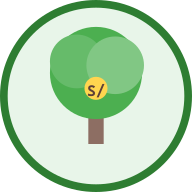
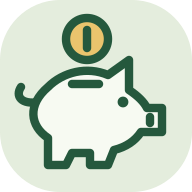
Renovar identidad con un cerdito de alcancía y unificar iconos PWA

diff --git a/src/live/live.css b/src/live/live.css
@@ -1,7 +1,7 @@
 .av-app,.av-page{--bg:#f7f8f3;--card:#fff;--ink:#20372c;--muted:#526459;--line:#cdd9cd;--accent:#25583d;color:var(--ink);background:var(--bg);font:1rem/1.6 Inter,system-ui,sans-serif;min-height:100vh}.av-page{padding:2rem 5vw}.av-app *,.av-page *{box-sizing:border-box}.av-app h1,.av-page h1{font-size:clamp(2rem,4vw,3.2rem);line-height:1.15;font-weight:600;letter-spacing:-.04em;margin:1rem 0}.av-app h2,.av-page h2{font-size:1.3em;font-weight:650;margin:0 0 .7rem}.av-app h3{font-weight:650;margin:1.4rem 0 .5rem}.av-app p,.av-page p{margin:.7rem 0 1rem;color:var(--muted)}
 .av-app button,.av-page button{font:inherit;background:var(--accent);border:1px solid var(--accent);color:white;border-radius:12px;padding:.65rem 1rem;min-height:44px;cursor:pointer;font-weight:600}.av-app button:disabled,.av-page button:disabled{opacity:.6;cursor:wait}.av-app .av-secondary,.av-page .av-secondary{background:var(--card);color:var(--ink);border-color:var(--line)}.av-app .av-link,.av-page .av-link{background:transparent;color:var(--accent);border:0;text-decoration:underline;padding:.4rem}
 .av-app label,.av-page label{display:flex;flex-direction:column;gap:.35rem;font-weight:550;margin:.8rem 0}.av-app input,.av-page input,.av-app select,.av-page select,.av-app textarea,.av-page textarea{font:inherit;background:var(--card);color:var(--ink);border:1px solid #9daea1;border-radius:9px;padding:.65rem;min-height:44px;width:100%;min-width:0;max-width:100%}.av-app textarea,.av-page textarea{min-height:5rem;resize:vertical}.av-check{flex-direction:row!important;align-items:flex-start;font-weight:400!important;min-height:44px}.av-app input[type=checkbox],.av-page input[type=checkbox]{width:22px;min-height:22px;flex-shrink:0;margin:.3rem}.av-app :focus-visible,.av-page :focus-visible{outline:3px solid #b8680e;outline-offset:4px}
-.av-card{background:var(--card);border:1px solid var(--line);border-radius:18px;padding:1.5rem;margin:1rem 0;min-width:0}.av-brand{font-size:1.3em;font-weight:700;text-decoration:none;color:var(--ink);letter-spacing:-.04em;display:inline-flex;align-items:center;gap:.6rem}.av-brand span{background:#e4eddd;color:#315f41;border-radius:50%;width:2.5rem;height:2.5rem;display:inline-grid;place-items:center}.av-header{display:flex;justify-content:space-between;align-items:center;gap:1rem;flex-wrap:wrap;padding:1rem 4vw;border-bottom:1px solid var(--line);background:var(--card)}.av-header>div{display:flex;gap:1rem;align-items:center;flex-wrap:wrap}
+.av-card{background:var(--card);border:1px solid var(--line);border-radius:18px;padding:1.5rem;margin:1rem 0;min-width:0}.av-brand{font-size:1.3em;font-weight:700;text-decoration:none;color:var(--ink);letter-spacing:-.04em;display:inline-flex;align-items:center;gap:.6rem}.av-brand-icon{display:block;width:2.5rem;height:2.5rem;flex-shrink:0}.av-header{display:flex;justify-content:space-between;align-items:center;gap:1rem;flex-wrap:wrap;padding:1rem 4vw;border-bottom:1px solid var(--line);background:var(--card)}.av-header>div{display:flex;gap:1rem;align-items:center;flex-wrap:wrap}
 .av-layout{max-width:1440px;margin:auto;display:grid;grid-template-columns:210px minmax(0,1fr);gap:2.5rem;padding:2rem 4vw}.av-nav{display:flex;flex-direction:column;gap:.4rem;align-self:start;position:sticky;top:1rem}.av-nav button{text-align:left;border:0;background:transparent;color:var(--muted)}.av-nav button[aria-current=page]{background:#e3ebdc;color:#214b33}.av-connection{font-size:.85em;padding:.6rem}.av-main{min-width:0}.av-toolbar{display:flex;align-items:center;justify-content:space-between;gap:1rem;flex-wrap:wrap;margin-bottom:1.5rem}.av-toolbar label{margin:0;min-width:200px;font-size:.9em}.av-eyebrow{font-size:.75em;font-weight:700;letter-spacing:.14em}
 .av-garden{border-radius:22px;overflow:hidden;margin:1.5rem 0 1rem;border:1px solid var(--line)}.av-garden img{width:100%;height:clamp(250px,38vw,430px);object-fit:cover;display:block}.av-garden figcaption{background:#183624;color:white;display:flex;flex-direction:column;padding:1rem 1.5rem;gap:.25rem}.av-garden figcaption strong{font-size:1.3em}.av-stats,.av-cards{display:grid;grid-template-columns:repeat(auto-fit,minmax(min(100%,260px),1fr));gap:1rem}.av-stats strong{font-size:1.6em}.av-app progress{width:100%;height:14px;accent-color:#397249;display:block;margin:.8rem 0}
 .av-error{background:#fff0ed!important;color:#8b2b19!important;border:1px solid #be7866;padding:1rem;border-radius:10px}.av-notice{background:#e7efde;color:#264c2d!important;border:1px solid #a8bf9b;padding:1rem;border-radius:10px;margin:1rem 0}.av-auth{max-width:1400px;margin:auto}.av-auth-grid{display:grid;grid-template-columns:1.1fr 1fr;gap:5vw;align-items:center;padding:2.5rem 0}.av-welcome h1{font-family:Georgia,serif;font-size:clamp(2.8rem,5vw,4.5rem);font-weight:400}.av-welcome img{width:100%;height:260px;object-fit:cover;border-radius:140px 140px 20px 20px;margin-top:1rem}

diff --git a/src/live/CollaborativeApp.tsx b/src/live/CollaborativeApp.tsx
@@ -11,6 +11,10 @@ const statusNames: Record<string,string> = {pending:'Pendiente de aprobación',a
 const movementNames = {expense:'Gasto',income:'Ingreso',savings:'Ahorro'};
 const errorMessage = (e:unknown) => e instanceof Error ? e.message : 'No pudimos completar la acción. Conservamos tus datos para reintentar.';
 
+function BrandIcon() {
+  return <img className="av-brand-icon" src="/brand/piggy-bank.svg" alt="" aria-hidden="true" width={40} height={40}/>;
+}
+
 export function CollaborativeApp() {
   const [session,setSession]=useState<Session|null>(null);
   const [ready,setReady]=useState(false);
@@ -45,7 +49,7 @@ function Auth() {
     }catch(e){setError(errorMessage(e));}finally{setBusy(false);}
   }
   return <main className="av-auth av-page">
-    <div className="av-brand"><span aria-hidden="true">✳</span> Alcancía Viva</div>
+    <div className="av-brand"><BrandIcon/> Alcancía Viva</div>
     <section className="av-auth-grid">
       <div className="av-welcome"><p className="av-eyebrow">CADA PEQUEÑO PASO CUENTA</p><h1>Tu ahorro,<br/>un jardín que crece.</h1>
         <p>Comprende tus gastos, cuida tus metas y avanza junto a quienes tú elijas.</p>
@@ -186,7 +190,7 @@ function Workspace({session}:{session:Session}) {
     <button className="av-link" onClick={()=>requireDatabase().auth.signOut()}>Cerrar sesión</button></section></main>;
   return <div className={`av-app ${prefs.highContrast?'av-contrast':''} ${prefs.largeText?'av-large':''} ${prefs.reducedMotion?'av-still':''}`}>
     <a className="av-skip" href="#av-main">Saltar al contenido</a>
-    <header className="av-header"><a className="av-brand" href="#av-main"><span aria-hidden="true">✳</span> Alcancía Viva</a>
+    <header className="av-header"><a className="av-brand" href="#av-main"><BrandIcon/> Alcancía Viva</a>
       <div><span>{profile.display_name}</span><button className="av-secondary" onClick={()=>requireDatabase().auth.signOut()}>Salir</button></div></header>
     <div className="av-layout"><nav aria-label="Navegación principal" className="av-nav">
       {[['garden','Mi jardín'],['goals','Metas'],['groups','Mis grupos'],['history','Movimientos'],['assistant','Asistente'],['settings','Preferencias']].map(([id,title])=><button key={id} aria-current={tab===id?'page':undefined} onClick={()=>setTab(id)}>{title}</button>)}

diff --git a/public/sw.js b/public/sw.js
@@ -1,5 +1,5 @@
-const CACHE = 'alcancia-viva-collaborative-v2';
-const SHELL = ['/', '/index.html', '/manifest.json', '/favicon.svg', '/icon-192.png', '/icon-512.png', '/garden/crecimiento.png', '/garden/floreciente.png'];
+const CACHE = 'alcancia-viva-collaborative-v3';
+const SHELL = ['/', '/index.html', '/manifest.json', '/brand/piggy-bank.svg', '/favicon.svg?v=piggy-v1', '/icon-192.png?v=piggy-v1', '/icon-512.png?v=piggy-v1', '/garden/crecimiento.png', '/garden/floreciente.png'];
 self.addEventListener('install', event => { event.waitUntil(caches.open(CACHE).then(cache => cache.addAll(SHELL))); self.skipWaiting(); });
 self.addEventListener('activate', event => {
  event.waitUntil(caches.keys().then(keys => Promise.all(keys.filter(k=>k.startsWith('alcancia-viva-')&&k!==CACHE).map(k=>caches.delete(k)))));

diff --git a/index.html b/index.html
@@ -5,7 +5,7 @@
     <meta name="viewport" content="width=device-width, initial-scale=1.0" />
     <meta name="theme-color" content="#2e7d32" />
     <meta name="description" content="Alcancía Viva - Educación financiera personal con un ecosistema vivo e interfaces no convencionales" />
-    <link rel="icon" type="image/svg+xml" href="/favicon.svg" />
+    <link rel="icon" type="image/svg+xml" href="/favicon.svg?v=piggy-v1" />
     <link rel="manifest" href="/manifest.json" />
     <title>Alcancía Viva - Educación Financiera</title>
   </head>
